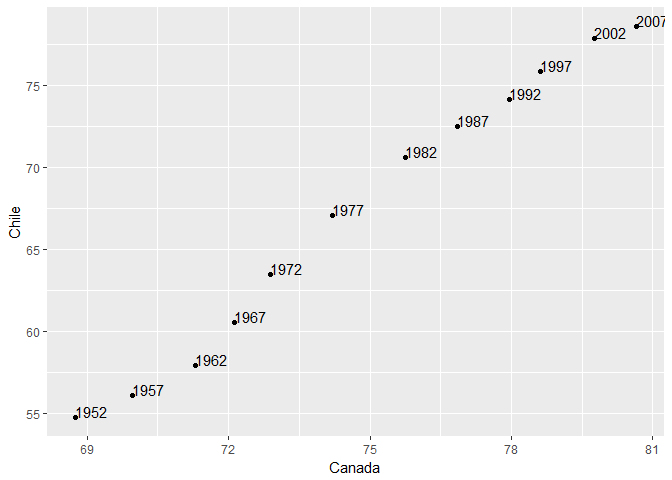
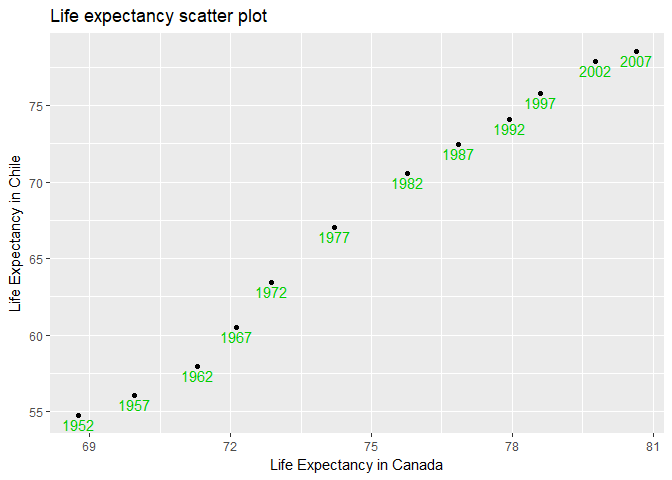
add labels to plot

diff --git a/hw04-cbnicolau.md b/hw04-cbnicolau.md
@@ -160,7 +160,12 @@ mini_gapminder %>%
   spread(country, lifeExp) %>% #make tibble where countries are columns and years are rows
   ggplot(aes(Canada, Chile, label = year)) + #scatterplot lifeExp of Canada vs Chile
   geom_point() +
-  geom_text(aes(label = year), hjust = 0, vjust = 0) #add labels and adjust position
+  geom_text(aes(label = year), color = 336699, hjust = 0.5, vjust = 1.25) + #add labels to points and adjust position
+
+  #change title, axis labels
+  ggtitle("Life expectancy scatter plot") + 
+  xlab("Life Expectancy in Canada")+ 
+  ylab("Life Expectancy in Chile")
 ```
 
 ![](hw04-cbnicolau_files/figure-markdown_github/scatter%20plot%20lifeExp-1.png)
@@ -174,9 +179,7 @@ Join Prompts (join, merge, look up)
 
 *Prompt:* Activity \#1
 
-Create a second data frame, complementary to Gapminder. Join this with (part of) Gapminder using a dplyr join function and make some observations about the process and result. Explore the different types of joins.
-
-Examples of a second data frame you could build: - One row per country, a country variable and one or more variables with extra info, such as language spoken, NATO membership, national animal, or capitol city. - One row per continent, a continent variable and one or more variables with extra info, such as northern versus southern hemisphere.
+*Create a second data frame, complementary to Gapminder. Join this with (part of) Gapminder using a dplyr join function and make some observations about the process and result. Explore the different types of joins.*
 
 We'll add a row with the country capitals. for this we first download the new data set and check the countries listed there match the ones in gapminder.
 
@@ -302,6 +305,10 @@ intersect(country_capitals$country, gapminder$country) #see countries that appea
     ## [125] "Uruguay"                  "Venezuela"               
     ## [127] "Vietnam"                  "Zambia"                  
     ## [129] "Zimbabwe"
+
+``` r
+#for some reason this returns NULL :S
+```
 
 We see that apparently there are some countries in `gapminder` that aren't in our new data set `country_capitals`. However we can still work with the 129 countries that are in both.
 
